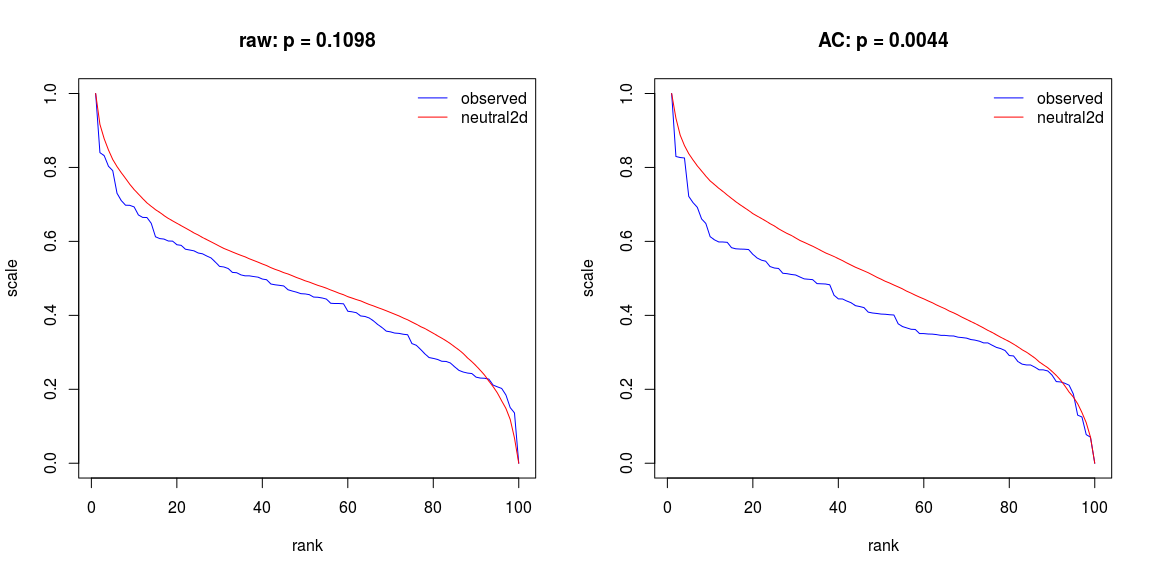
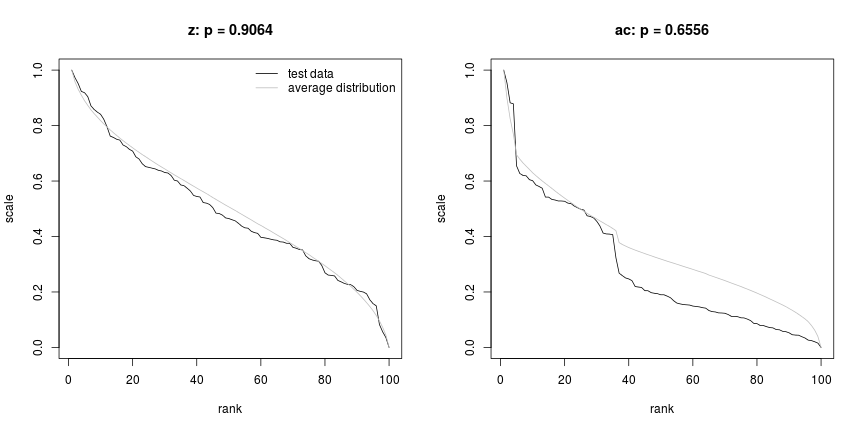
update readme; add new figs

diff --git a/README.md b/README.md
@@ -1,6 +1,12 @@
 [![Build Status](https://travis-ci.org/mpadge/hotspotr.svg?branch=master)](https://travis-ci.org/mpadge/hotspotr) [![codecov](https://codecov.io/gh/mpadge/hotspotr/branch/master/graph/badge.svg)](https://codecov.io/gh/mpadge/hotspotr)
 
-R package for estimating whether the statistical properties of a spatial pattern of hotspots may be reproduced with a simple neutral model. Currently only works for gridded data.
+There are a number of statistical tools for evaluating the significance of observed spatial patterns of hotspots (such as those in [`spdep`](https://cran.r-project.org/package=spdep)). While such tools enable hotspots to be identified within a given set of spatial data, they do not allow quantification of whether the entire data set in fact reflects significant spatial structuring. For example, numbers of locally significant hotspots must be expected to increase with numbers of spatial observations.
+
+The `R` package `hotspotr` enables the global significance of an observed spatial data set to be quantified by comparing both raw values and their local spatial relationships with those generated from a neutral model. If the global pattern of observed values is able to be reproduced by a neutral model, then any local hotspots may not be presumed significant regardless of the values of local statistics. Conversely, if the global pattern is unable to be reproduced by a neutral model, then local hotspots may indeed be presumed to be statistically significant.
+
+The package is inspired by the work of Brown, Mehlman, & Stevens (Ecology 1995) and Ives & Klopfer (Ecology 1997). `hotspotr` follows the same premises as these two papers, in examining the extent to which rank--scale distributions can be reproduced by simple neutral models. `hotspotr` compares rank--scale distributions not only of the data of interest, but of corresponding local autocorrelation statistics.
+
+Analysis involves first fitting a model using the function `fit_hotspot_model`, and then testing the significance of that using the function `p-values`.
 
 Install
 -------
@@ -9,63 +15,102 @@ Install
 devtools::install_github ('mpadge/hotspotr')
 ```
 
-Demonstration
-----
+Test\#1
+-------
 
-First a demonstration with a seed that produces a 2D field very similar to neutral fields.
+First a demonstration that the model of Ives & Klopfer (Ecology 1997) can be reproduced with a simpler neutral model. This uses the function `ives` which generates random values on a square grid of dimensions `(size, size)`. The resultant ranks therefore range from 1 to 10\(\times\) 10=100.
 
 ``` r
 plot.new ()
-seed <- 18
-dat <- ives (size=10, seed=seed)
-test <- test_hotspots (z=dat$z, nbs=dat$nbs, plot=TRUE)
+dat <- ives (size=10, seed=1)
+mod <- fit_hotspot_model (z=dat$dat$z, nbs=dat$nbs)
+p_values (z=dat$dat$z, nbs=dat$nbs, alpha=mod$alpha, nt=mod$nt, plot=TRUE)
 ```
 
 ![](fig/demo-moran.png)
 
-The default spatial autocorrelation statistic is Moran's I, with results for other statistics in this case notably different. Geary's C:
+The panel on the left shows the rank--scale distribution of the data produced by the model of Ives & Klopfer (`test data`), along with the mean rank--scale distribution of a series of neutral models. The two are highly similar, and the corresponding probability (`p=0.62`) indicates no significant difference between them. The panel on the right performs the same analysis on the local autocorrelation statistics, again revealing no significant difference with a neutral model.
+
+The default spatial autocorrelation statistic is Moran's I, with analyses also possible using Geary's C:
 
 ``` r
 plot.new ()
-test <- test_hotspots (z=dat$z, nbs=dat$nbs, plot=TRUE, ac_type='geary')
+mod <- fit_hotspot_model (z=dat$dat$z, nbs=dat$nbs, ac_type='geary')
+p_values (z=dat$dat$z, nbs=dat$nbs, alpha=mod$alpha, nt=mod$nt, ac_type='geary', 
+          plot=TRUE)
 ```
 
 ![](fig/demo-geary.png)
 
-And Getis-Ord:
+And the Getis-Ord statistic:
 
 ``` r
 plot.new ()
-test <- test_hotspots (z=dat$z, nbs=dat$nbs, plot=TRUE, ac_type='getis')
+mod <- fit_hotspot_model (z=dat$dat$z, nbs=dat$nbs, ac_type='getis')
+p_values (z=dat$dat$z, nbs=dat$nbs, alpha=mod$alpha, nt=mod$nt, ac_type='getis', 
+          plot=TRUE)
 ```
 
 ![](fig/demo-getis.png)
 
-Then the text output of `run_tests` for a random seed giving more typically low p-values.
+Test\#2
+-------
+
+Then test the more complex case of the `meuse` data from the `sp` package, which contain topsoil heavy metal concentrations near Meuse, NL.
 
 ``` r
-dat <- ives (size=10)
-run_tests (nbs=dat$nbs, z=dat$z, ntests=100)
+data (meuse, package='sp')
+names (meuse)
 ```
 
-    ##              differences     p-values        |                       |
-    ##   alpha      raw     AC      raw     AC      |   alpha           n   |
-    ## ---------------------------------------------|-----------------------|
-    ##  (0.1, 0.1)  0.20    0.00    0.8104  0.4635  |   (0.87, -0.05)   10  |
-    ##  (0.1, 0)    0.19    0.00    0.8073  0.5280  |   (0.28, 0.02)    10  |
-    ## ----------------------------------------------------------------------
+    ##  [1] "x"       "y"       "cadmium" "copper"  "lead"    "zinc"    "elev"   
+    ##  [8] "dist"    "om"      "ffreq"   "soil"    "lime"    "landuse" "dist.m"
 
-Note that the model field tested here has a complex *temporal* structure yet a generic---that is, neutral---\*spatial structure, and that the `p-values` reflect these differences.
-
-`run_tests` can also be used to test a neutral field against a statistial ensemble of neutral fields:
+The function `test_hotspots` requires data to be tested, a list of neighbours (constructed here as `knearneigh`), and a matching list of weights (constructed here as inverse-distance weights):
 
 ``` r
-run_tests (neutral=TRUE)
+xy <- cbind (meuse$x, meuse$y)
+nbs <- spdep::knn2nb (spdep::knearneigh (xy, k=4))
+dists <- spdep::nbdists (nbs, xy)
+d1 <- lapply (dists, function (i) 1/i)
 ```
 
-    ##              differences     p-values        |                       |
-    ##   alpha      raw     AC      raw     AC      |   alpha           n   |
-    ## ---------------------------------------------|-----------------------|
-    ##  (0.1, 0.1)  0.29    0.00    0.4908  0.2884  |   (1.13, -0.04)   10  |
-    ##  (0.1, 0)    0.28    0.00    0.6964  0.3564  |   (0.38, 0.01)    11  |
-    ## ----------------------------------------------------------------------
+Spatial patterns for the different metals can then be statistically compared with neutral models:
+
+``` r
+analyse <- function (metal='copper', ntests=1000)
+{
+    z <- meuse [metal] [,1]
+    mod <- fit_hotspot_model (z=z, nbs=nbs)
+    p_values (z=z, nbs=nbs, alpha=mod$alpha, nt=mod$nt, ntests=ntests,
+              plot=TRUE)
+}
+```
+
+For demonstration purposes, `ntests=1000` is sufficient, but larger values will generate more reliable estimates. These functions can be quite time-consuming.
+
+``` r
+analyse (metal='cadmium', ntests=1000)
+```
+
+![](fig/meuse-cadmium.png)
+
+``` r
+analyse (metal='copper', ntests=1000)
+```
+
+![](fig/meuse-copper.png)
+
+``` r
+analyse (metal='lead', ntests=1000)
+```
+
+![](fig/meuse-lead.png)
+
+``` r
+analyse (metal='zinc', ntests=1000)
+```
+
+![](fig/meuse-zinc.png)
+
+These plots demonstrate that in all cases, the observed values themselves (`z` in the figures) can not be reproduced by a neutral model, yet the actual spatial relationships between them can. This indicates that the generating processes can be modelled by assuming nothing other than simple spatial autocorrelation acting on a more complex, non-spatial process.
